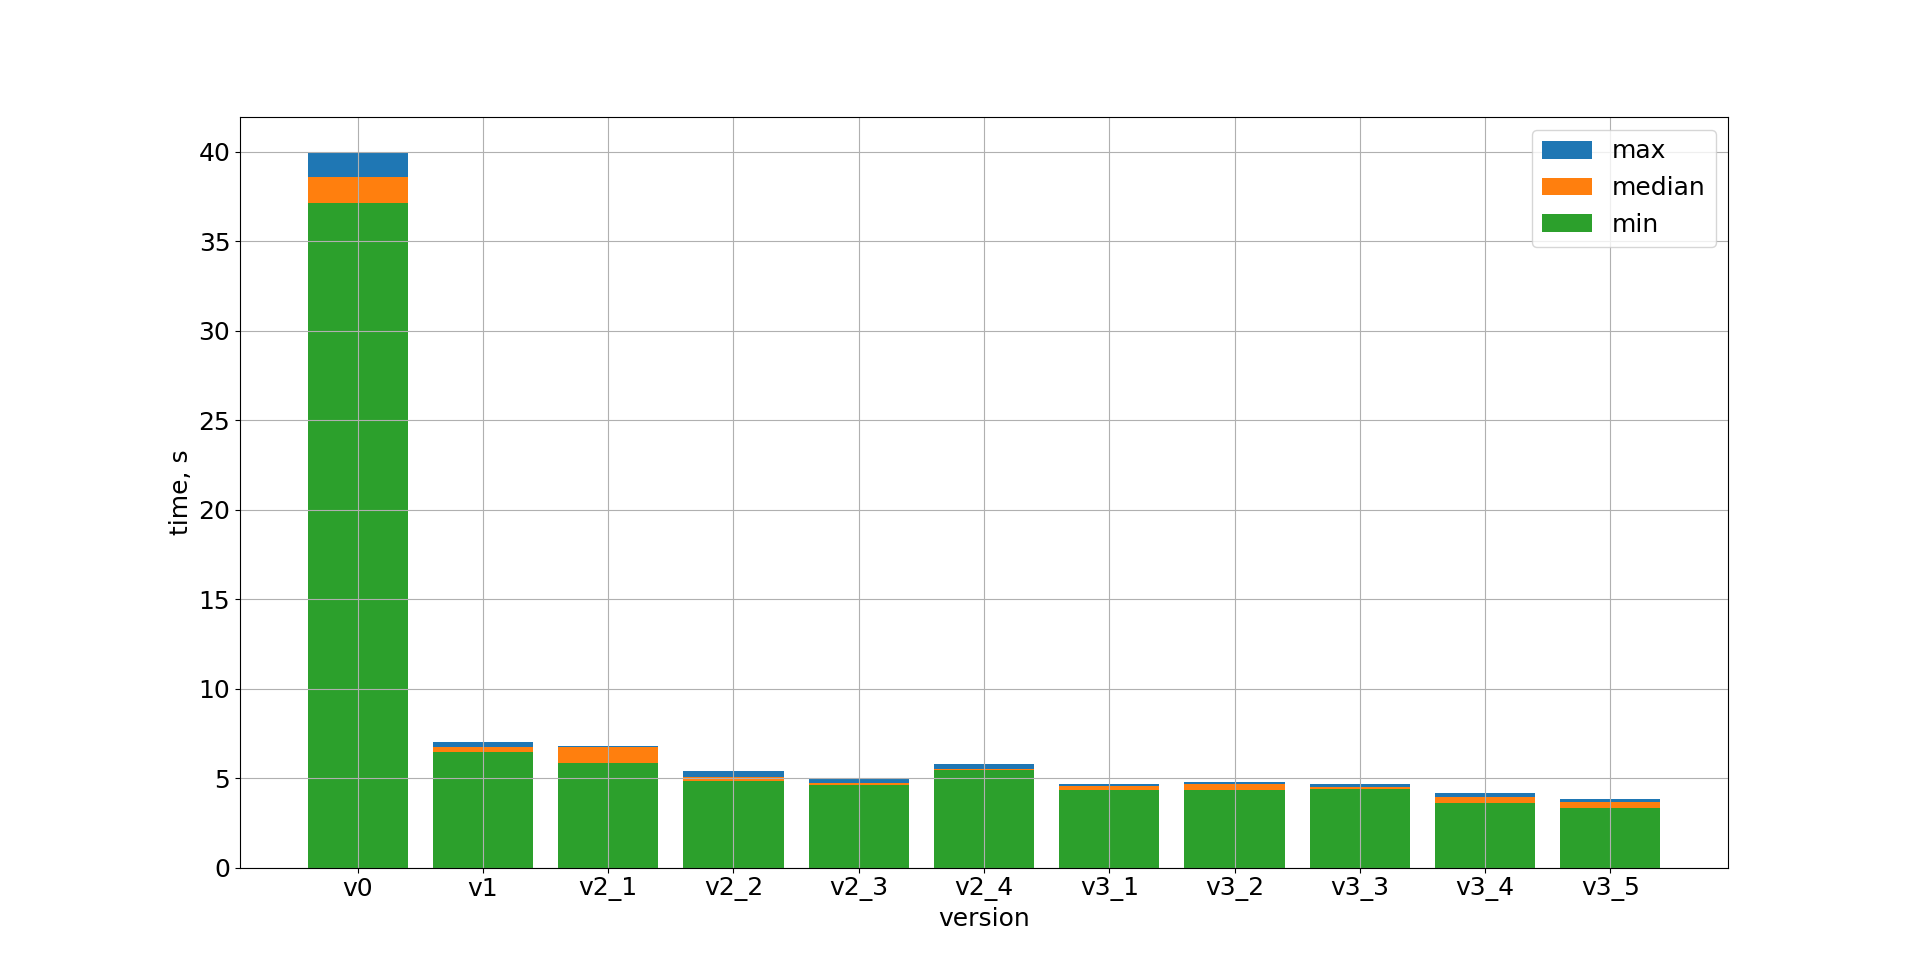
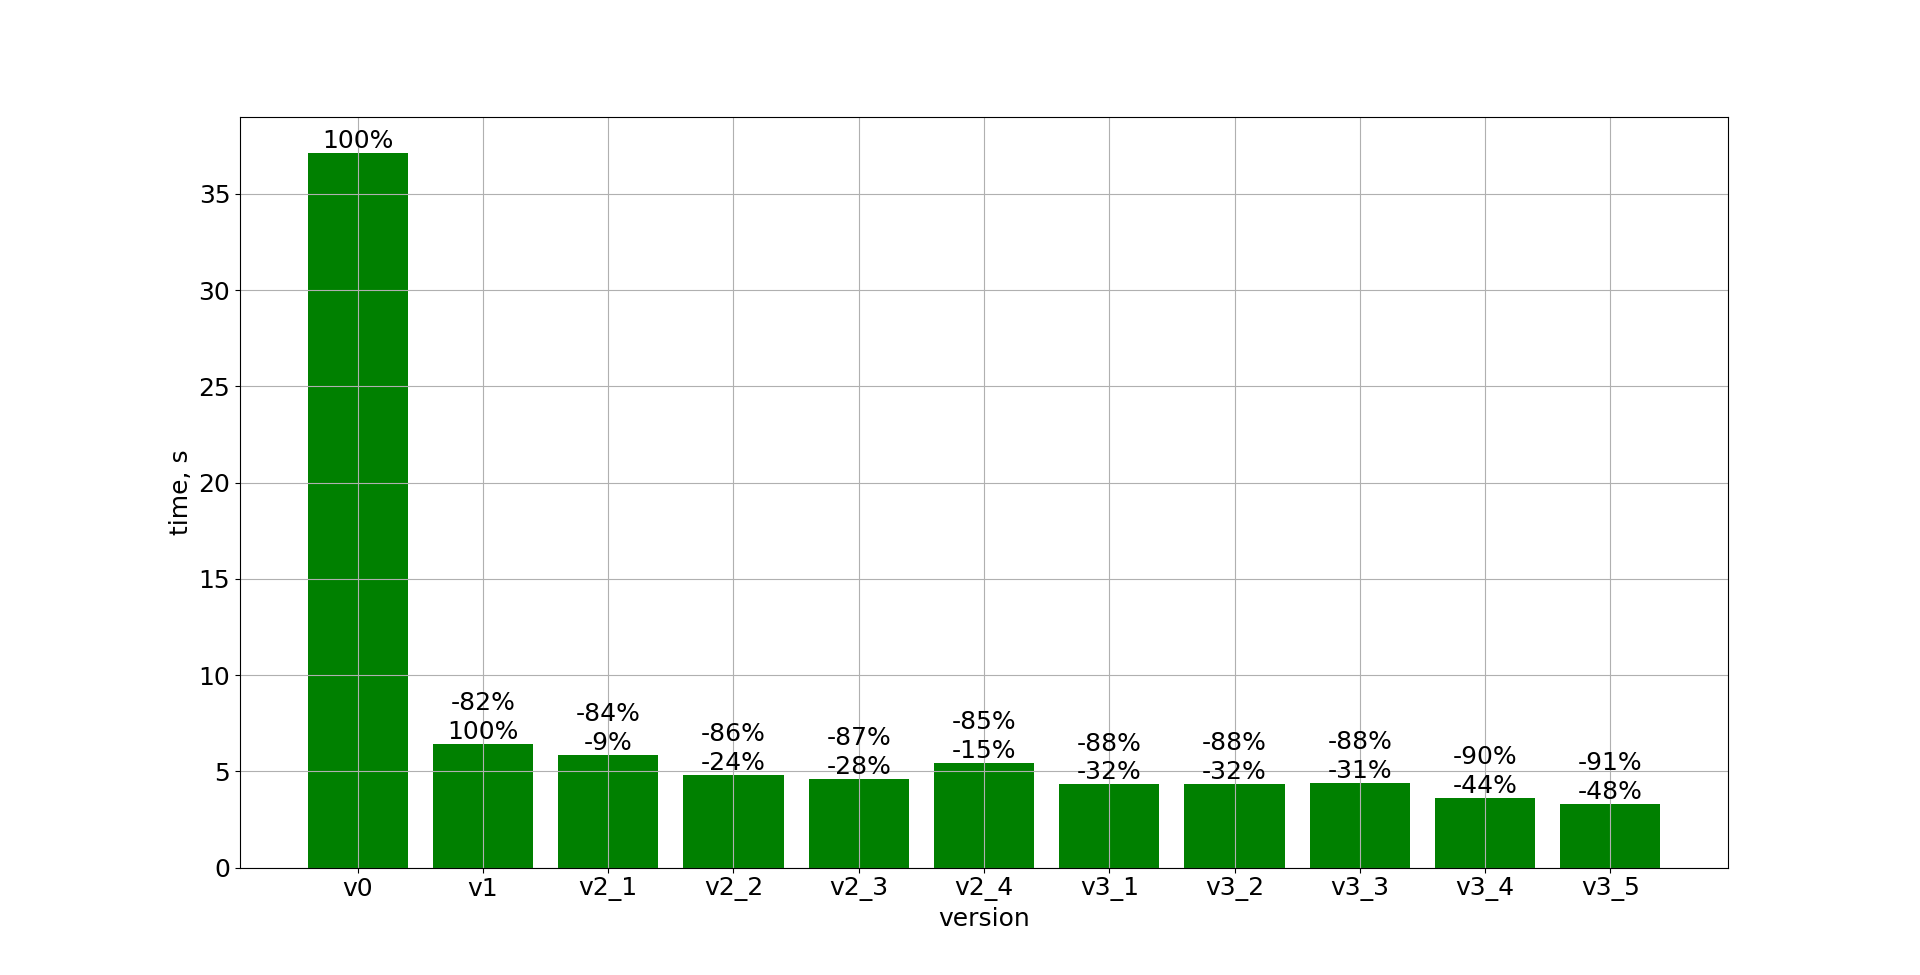
redrown graphics

diff --git a/FastQED_versions/bin/compare_time.py b/FastQED_versions/bin/compare_time.py
@@ -27,17 +27,31 @@ mins = np.array([np.min(l) for l in times.values()])
 maxs = np.array([np.max(l) for l in times.values()])
 versions = [key[14:] for key in times.keys()]
 
-print(np.max((medians - mins)/medians))
+speedup_abs = [1.0]
+for time in mins[1:]:
+    speedup_abs.append(time / mins[0])
+speedup_abs = np.array(speedup_abs)
+
+print(np.max((maxs - mins)/medians))
 
 matplotlib.rcParams.update({'font.size': 18})
 
 fig = plt.figure()
 ax = fig.add_subplot(1,1,1)       
-ax.bar(versions, maxs, label="max")
-ax.bar(versions, medians, label="median")
-ax.bar(versions, mins, label="min")
+#ax.bar(versions, maxs, label="max")   
+#ax.bar(versions, medians, label="median")
+ax.bar(versions, mins, label="min", color="g")
 
-ax.legend()
+for i, rect, sp_abs in zip(range(len(mins)), ax.patches, speedup_abs):
+    height = rect.get_height()
+    if i == 0:
+        label = "100%"
+        ax.text(rect.get_x() + rect.get_width() / 2, height, label, ha="center", va="bottom")
+    if i >= 1:
+        label = "-%d" % (int((1.0 - sp_abs)*100)) + str("%")
+        ax.text(rect.get_x() + rect.get_width() / 2, height, label, ha="center", va="bottom")
+
+#ax.legend()
 ax.set_xlabel("version")
 ax.set_ylabel("time, s")
 

diff --git a/FastQED_versions/compare_time.py b/FastQED_versions/compare_time.py
@@ -27,17 +27,31 @@ mins = np.array([np.min(l) for l in times.values()])
 maxs = np.array([np.max(l) for l in times.values()])
 versions = [key[14:] for key in times.keys()]
 
-print(np.max((medians - mins)/medians))
+speedup_abs = [1.0]
+for time in mins[1:]:
+    speedup_abs.append(time / mins[0])
+speedup_abs = np.array(speedup_abs)
+
+print(np.max((maxs - mins)/medians))
 
 matplotlib.rcParams.update({'font.size': 18})
 
 fig = plt.figure()
 ax = fig.add_subplot(1,1,1)       
-ax.bar(versions, maxs, label="max")
-ax.bar(versions, medians, label="median")
-ax.bar(versions, mins, label="min")
+#ax.bar(versions, maxs, label="max")   
+#ax.bar(versions, medians, label="median")
+ax.bar(versions, mins, label="min", color="g")
 
-ax.legend()
+for i, rect, sp_abs in zip(range(len(mins)), ax.patches, speedup_abs):
+    height = rect.get_height()
+    if i == 0:
+        label = "100%"
+        ax.text(rect.get_x() + rect.get_width() / 2, height, label, ha="center", va="bottom")
+    if i >= 1:
+        label = "-%d" % (int((1.0 - sp_abs)*100)) + str("%")
+        ax.text(rect.get_x() + rect.get_width() / 2, height, label, ha="center", va="bottom")
+
+#ax.legend()
 ax.set_xlabel("version")
 ax.set_ylabel("time, s")
 
